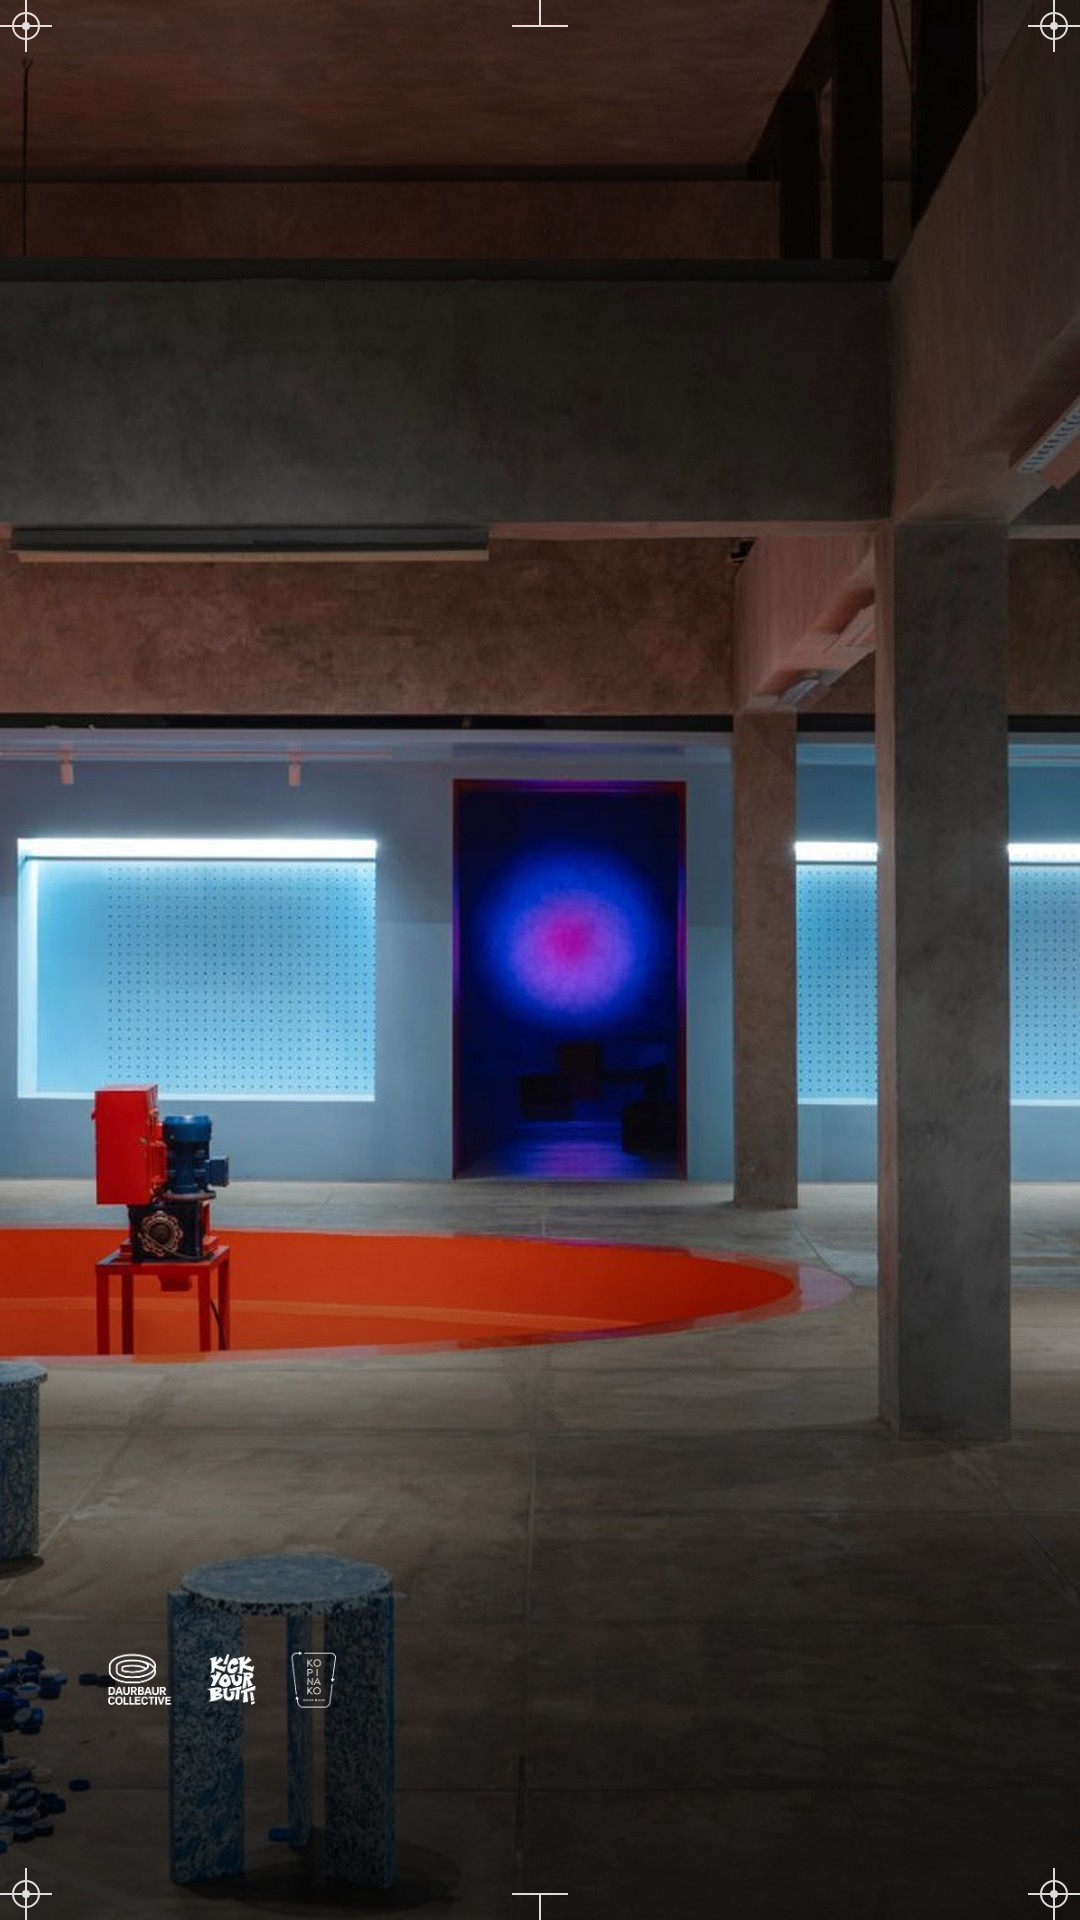
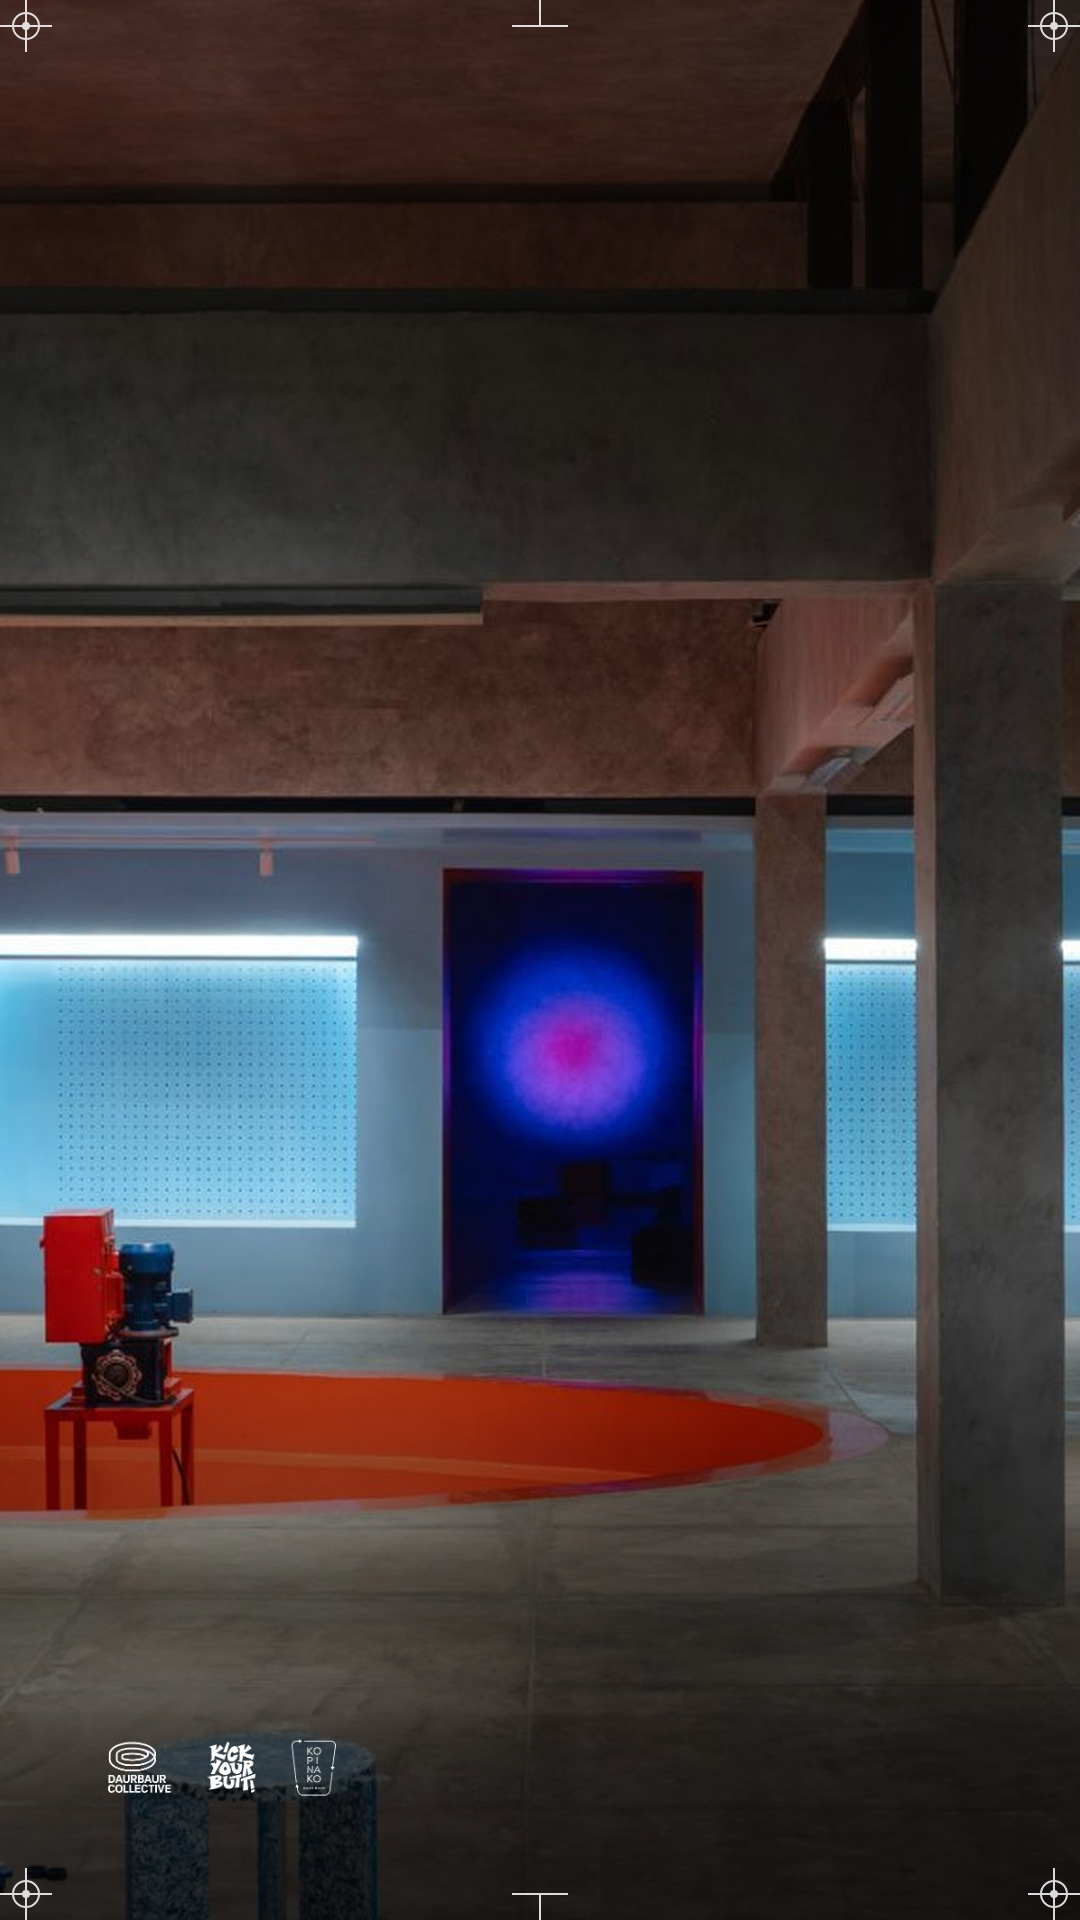
Hall invite: more writing space, zoom photo so beam edge meets invites line
Claude-Session: https://claude.ai/code/session_01MkepNVKUBixwkwPGrG164Z

diff --git a/invite/kemang-circular-hall-blank.html b/invite/kemang-circular-hall-blank.html
@@ -5,9 +5,9 @@
 :root{--fg:#fff;--dim:rgba(255,255,255,.78)}
 *{margin:0;padding:0;box-sizing:border-box}
 body{width:1080px;height:1920px;background:#111;overflow:hidden;color:var(--fg);font-family:'Inter',sans-serif}
-.poster{position:relative;width:100%;height:100%;background:url(assets/hall.jpg) center/cover}
+.poster{position:relative;width:100%;height:100%;background:url(assets/hall-zoom.jpg) center/cover}
 .shade{position:absolute;inset:0;background:
- linear-gradient(to bottom,rgba(0,0,0,.45) 0%,rgba(0,0,0,.15) 30%,rgba(0,0,0,0) 42%,rgba(0,0,0,0) 56%,rgba(0,0,0,.4) 72%,rgba(0,0,0,.72) 100%)}
+ linear-gradient(to bottom,rgba(0,0,0,.45) 0%,rgba(0,0,0,.15) 30%,rgba(0,0,0,0) 42%,rgba(0,0,0,0) 62%,rgba(0,0,0,.42) 76%,rgba(0,0,0,.72) 100%)}
 .l{position:absolute;left:100px;right:100px;text-shadow:0 2px 18px rgba(0,0,0,.35)}
 .mark{font-family:'Inter Tight';font-weight:800;letter-spacing:-.045em}
 .mark sup{font-size:.36em;font-weight:700;vertical-align:1.1em;margin-left:2px;letter-spacing:0}
@@ -15,15 +15,15 @@ body{width:1080px;height:1920px;background:#111;overflow:hidden;color:var(--fg);
 .mono{font-family:'IBM Plex Mono',monospace}
 
 .title{top:230px;font-family:'Inter Tight';font-weight:800;font-size:104px;line-height:.93;letter-spacing:-.055em}
-.invites{top:470px;display:flex;align-items:baseline;gap:18px}
+.invites{top:530px;display:flex;align-items:baseline;gap:18px}
 .invites .mark{font-size:64px}
 .invites .line{flex:1;border-bottom:4px solid #fff;transform:translateY(-8px)}
 .quote{top:590px;font-size:30px;line-height:1.25;color:var(--dim)}
 
-.date{top:1405px;font-size:44px;line-height:1.12;font-weight:500}
-.venue{top:1530px;font-size:24px;line-height:1.4;color:var(--dim);font-weight:500}
+.date{top:1528px;font-size:42px;line-height:1.12;font-weight:500}
+.venue{top:1640px;font-size:24px;line-height:1.4;color:var(--dim);font-weight:500}
 .venue b{color:#fff;font-weight:700}
-.partners{top:1650px;display:flex;align-items:center;gap:30px}
+.partners{top:1738px;display:flex;align-items:center;gap:30px}
 .partners .mark{font-size:34px}
 .partners img{height:62px;display:block}
 .partners i{width:2px;height:46px;background:rgba(255,255,255,.4)}

diff --git a/invite/kemang-circular-hall-photo-only.html b/invite/kemang-circular-hall-photo-only.html
@@ -5,9 +5,9 @@
 :root{--fg:#fff;--dim:rgba(255,255,255,.78)}
 *{margin:0;padding:0;box-sizing:border-box}
 body{width:1080px;height:1920px;background:#111;overflow:hidden;color:var(--fg);font-family:'Inter',sans-serif}
-.poster{position:relative;width:100%;height:100%;background:url(assets/hall.jpg) center/cover}
+.poster{position:relative;width:100%;height:100%;background:url(assets/hall-zoom.jpg) center/cover}
 .shade{position:absolute;inset:0;background:
- linear-gradient(to bottom,rgba(0,0,0,.45) 0%,rgba(0,0,0,.15) 30%,rgba(0,0,0,0) 42%,rgba(0,0,0,0) 56%,rgba(0,0,0,.4) 72%,rgba(0,0,0,.72) 100%)}
+ linear-gradient(to bottom,rgba(0,0,0,.45) 0%,rgba(0,0,0,.15) 30%,rgba(0,0,0,0) 42%,rgba(0,0,0,0) 62%,rgba(0,0,0,.42) 76%,rgba(0,0,0,.72) 100%)}
 .l{position:absolute;left:100px;right:100px;text-shadow:0 2px 18px rgba(0,0,0,.35)}
 .mark{font-family:'Inter Tight';font-weight:800;letter-spacing:-.045em}
 .mark sup{font-size:.36em;font-weight:700;vertical-align:1.1em;margin-left:2px;letter-spacing:0}
@@ -15,15 +15,15 @@ body{width:1080px;height:1920px;background:#111;overflow:hidden;color:var(--fg);
 .mono{font-family:'IBM Plex Mono',monospace}
 
 .title{top:230px;font-family:'Inter Tight';font-weight:800;font-size:104px;line-height:.93;letter-spacing:-.055em}
-.invites{top:470px;display:flex;align-items:baseline;gap:18px}
+.invites{top:530px;display:flex;align-items:baseline;gap:18px}
 .invites .mark{font-size:64px}
 .invites .line{flex:1;border-bottom:4px solid #fff;transform:translateY(-8px)}
 .quote{top:590px;font-size:30px;line-height:1.25;color:var(--dim)}
 
-.date{top:1405px;font-size:44px;line-height:1.12;font-weight:500}
-.venue{top:1530px;font-size:24px;line-height:1.4;color:var(--dim);font-weight:500}
+.date{top:1528px;font-size:42px;line-height:1.12;font-weight:500}
+.venue{top:1640px;font-size:24px;line-height:1.4;color:var(--dim);font-weight:500}
 .venue b{color:#fff;font-weight:700}
-.partners{top:1650px;display:flex;align-items:center;gap:30px}
+.partners{top:1738px;display:flex;align-items:center;gap:30px}
 .partners .mark{font-size:34px}
 .partners img{height:62px;display:block}
 .partners i{width:2px;height:46px;background:rgba(255,255,255,.4)}

diff --git a/invite/kemang-circular-hall.html b/invite/kemang-circular-hall.html
@@ -5,9 +5,9 @@
 :root{--fg:#fff;--dim:rgba(255,255,255,.78)}
 *{margin:0;padding:0;box-sizing:border-box}
 body{width:1080px;height:1920px;background:#111;overflow:hidden;color:var(--fg);font-family:'Inter',sans-serif}
-.poster{position:relative;width:100%;height:100%;background:url(assets/hall.jpg) center/cover}
+.poster{position:relative;width:100%;height:100%;background:url(assets/hall-zoom.jpg) center/cover}
 .shade{position:absolute;inset:0;background:
- linear-gradient(to bottom,rgba(0,0,0,.45) 0%,rgba(0,0,0,.15) 30%,rgba(0,0,0,0) 42%,rgba(0,0,0,0) 56%,rgba(0,0,0,.4) 72%,rgba(0,0,0,.72) 100%)}
+ linear-gradient(to bottom,rgba(0,0,0,.45) 0%,rgba(0,0,0,.15) 30%,rgba(0,0,0,0) 42%,rgba(0,0,0,0) 62%,rgba(0,0,0,.42) 76%,rgba(0,0,0,.72) 100%)}
 .l{position:absolute;left:100px;right:100px;text-shadow:0 2px 18px rgba(0,0,0,.35)}
 .mark{font-family:'Inter Tight';font-weight:800;letter-spacing:-.045em}
 .mark sup{font-size:.36em;font-weight:700;vertical-align:1.1em;margin-left:2px;letter-spacing:0}
@@ -15,15 +15,15 @@ body{width:1080px;height:1920px;background:#111;overflow:hidden;color:var(--fg);
 .mono{font-family:'IBM Plex Mono',monospace}
 
 .title{top:230px;font-family:'Inter Tight';font-weight:800;font-size:104px;line-height:.93;letter-spacing:-.055em}
-.invites{top:470px;display:flex;align-items:baseline;gap:18px}
+.invites{top:530px;display:flex;align-items:baseline;gap:18px}
 .invites .mark{font-size:64px}
 .invites .line{flex:1;border-bottom:4px solid #fff;transform:translateY(-8px)}
 .quote{top:590px;font-size:30px;line-height:1.25;color:var(--dim)}
 
-.date{top:1405px;font-size:44px;line-height:1.12;font-weight:500}
-.venue{top:1530px;font-size:24px;line-height:1.4;color:var(--dim);font-weight:500}
+.date{top:1528px;font-size:42px;line-height:1.12;font-weight:500}
+.venue{top:1640px;font-size:24px;line-height:1.4;color:var(--dim);font-weight:500}
 .venue b{color:#fff;font-weight:700}
-.partners{top:1650px;display:flex;align-items:center;gap:30px}
+.partners{top:1738px;display:flex;align-items:center;gap:30px}
 .partners .mark{font-size:34px}
 .partners img{height:62px;display:block}
 .partners i{width:2px;height:46px;background:rgba(255,255,255,.4)}
